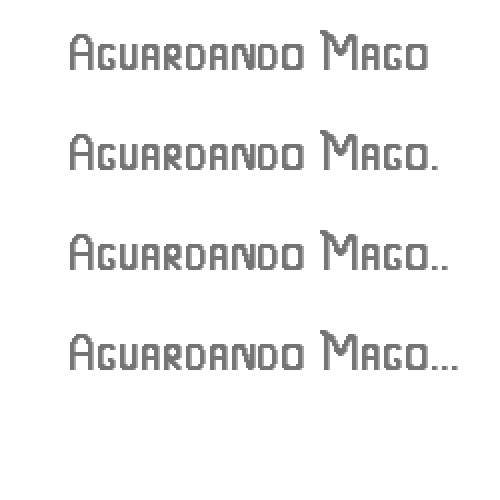
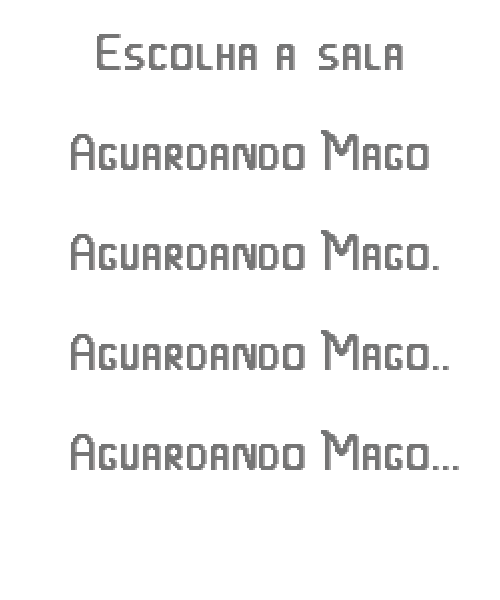
barnacle

Changed region(s): [[0.12, 0.21, 0.9, 0.63], [0.12, 0.66, 0.93, 0.81], [0.12, 0.03, 0.87, 0.15]]

diff --git a/js/mainGame.js b/js/mainGame.js
@@ -23,6 +23,7 @@ var wasJumping = false; //Serve para tocar o som de aterrisagem, assim muda a va
 
 var MK_onGround = false;
 var MK_overlapBoss = false;
+var roomMessage;
 
 var SFX_Land;
 var SFX_knightHit;
@@ -209,6 +210,15 @@ mainGame.preload = function () {
     {
       frameWidth: 128,
       frameHeight: 128,
+    }
+  );
+
+    this.load.spritesheet(
+    "roomMessage",
+    "./assets/messages/waitPlayer2_MSG.png",
+    {
+      frameWidth: 500,
+      frameHeight: 100,
     }
   );
 
@@ -634,12 +644,8 @@ mainGame.create = function () {
   //Conexão do servidor
   socket = io("https://mage0knight.herokuapp.com/");
 
-  sala = 1;
   socket.emit("entrar-na-sala", sala);
-  /*  var mensagem = this.add.text(10, 10, "Sala para entrar:", {
-    font: "32px Courier",
-    fill: "#ffffff",
-  });
+
 
   var mensagemEntrada = this.add.text(10, 50, "", {
     font: "32px Courier",
@@ -664,7 +670,6 @@ mainGame.create = function () {
       mensagemEntrada.destroy();
     }
   });
-*/
   socket.on("botao", (botoes)  => {
     knightCirclePress = botoes.knightCirclePress;
     knightSquarePress = botoes.knightSquarePress;
@@ -800,6 +805,11 @@ mainGame.create = function () {
   //  Here we create the ground.
   //  Scale it to fit the width of the game (the original sprite is 400x32 in size)
   platforms.create(400, 585, "MAP_floor");
+
+  //Mensagem Sala
+
+  roomMessage = this.physics.add.sprite(400, 100, "roomMessage").setImmovable(true);
+  roomMessage.body.setAllowGravity(false);
 
   //Inimigo!
   eye = this.physics.add.sprite(600, 400, "EYE_heAwakens").setImmovable(true);
@@ -1152,6 +1162,18 @@ mainGame.create = function () {
   MUSIC_preparing2 = this.sound.add("MUSIC_preparing2", { loop: true });
   MUSIC_rustedGate = this.sound.add("MUSIC_rustedGate", { loop: true });
 
+  //Animação Mensagems
+
+  this.anims.create({
+    key: "await-forMage",
+    frames: this.anims.generateFrameNUmbers("roomMessage", {
+      start: 1,
+      end: 4,
+    }),
+    frameRate: 10,
+    repeat: -1
+  })
+
   //ANIMAÇÕES MAGEKNIGHT
   this.anims.create({
     key: "MK-idleRight",
@@ -1495,6 +1517,12 @@ mainGame.update = function () {
 
   //Preparing Loop START
   if (playersOnline === false) {
+    if (jogador === 1) {
+      roomMessage.anims.play("await-forMage", true);
+    } else {
+      roomMessage.setFrame(0);
+    }
+
     if (preparingCount === 0) {
       preparingCount = preparingCount + 1;
       MUSIC_preparing1.play();
@@ -1520,6 +1548,7 @@ mainGame.update = function () {
   //Preparing Loop END
 
   if (playersOnline === true) {
+    roomMessage.setFrame(5);
     if (jogador === 1) {
       if (knightCirclePress === false) {
         BUTTON_CIRCLE.setTexture("BUTTON_CIRCLEK", 0);
